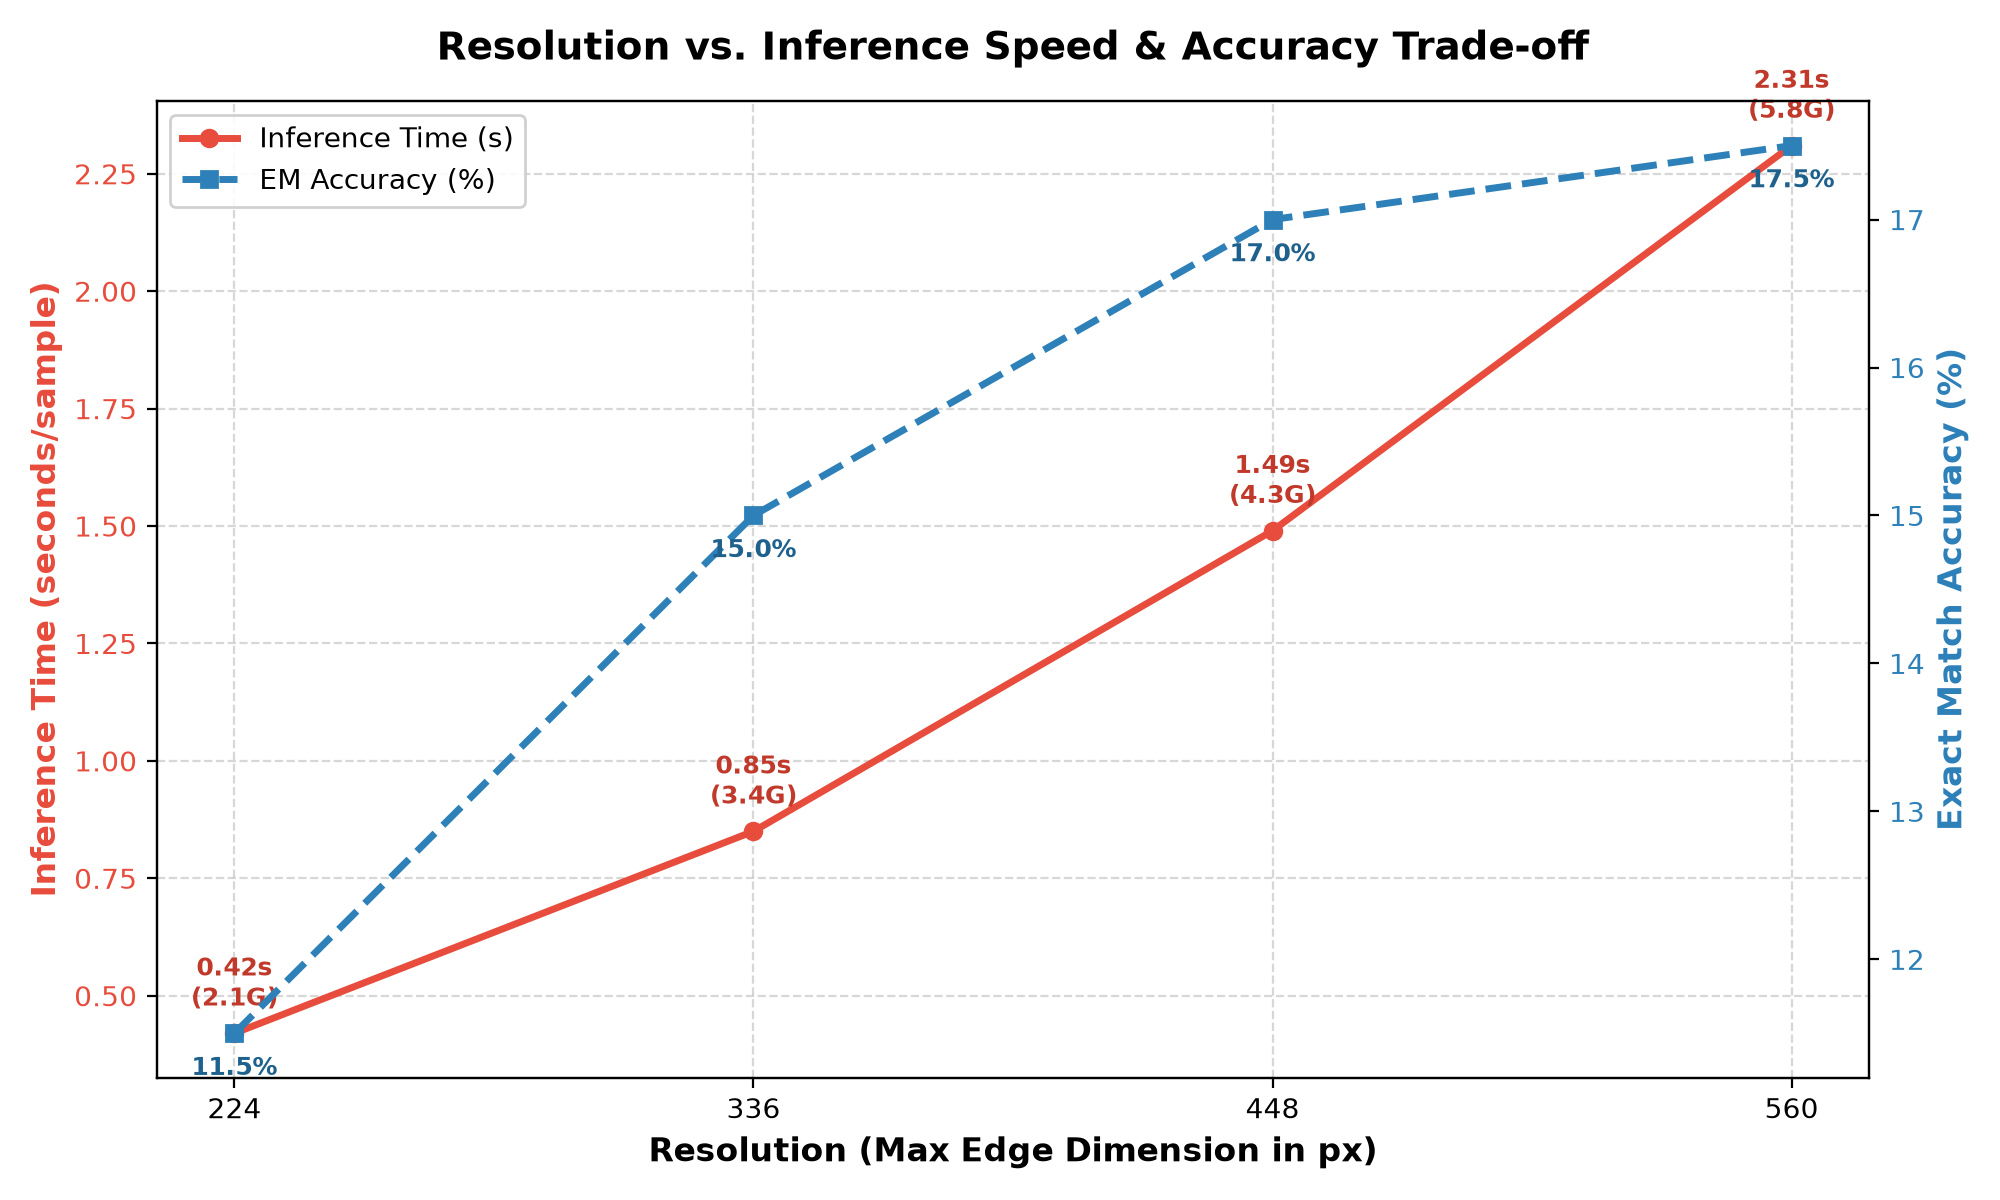
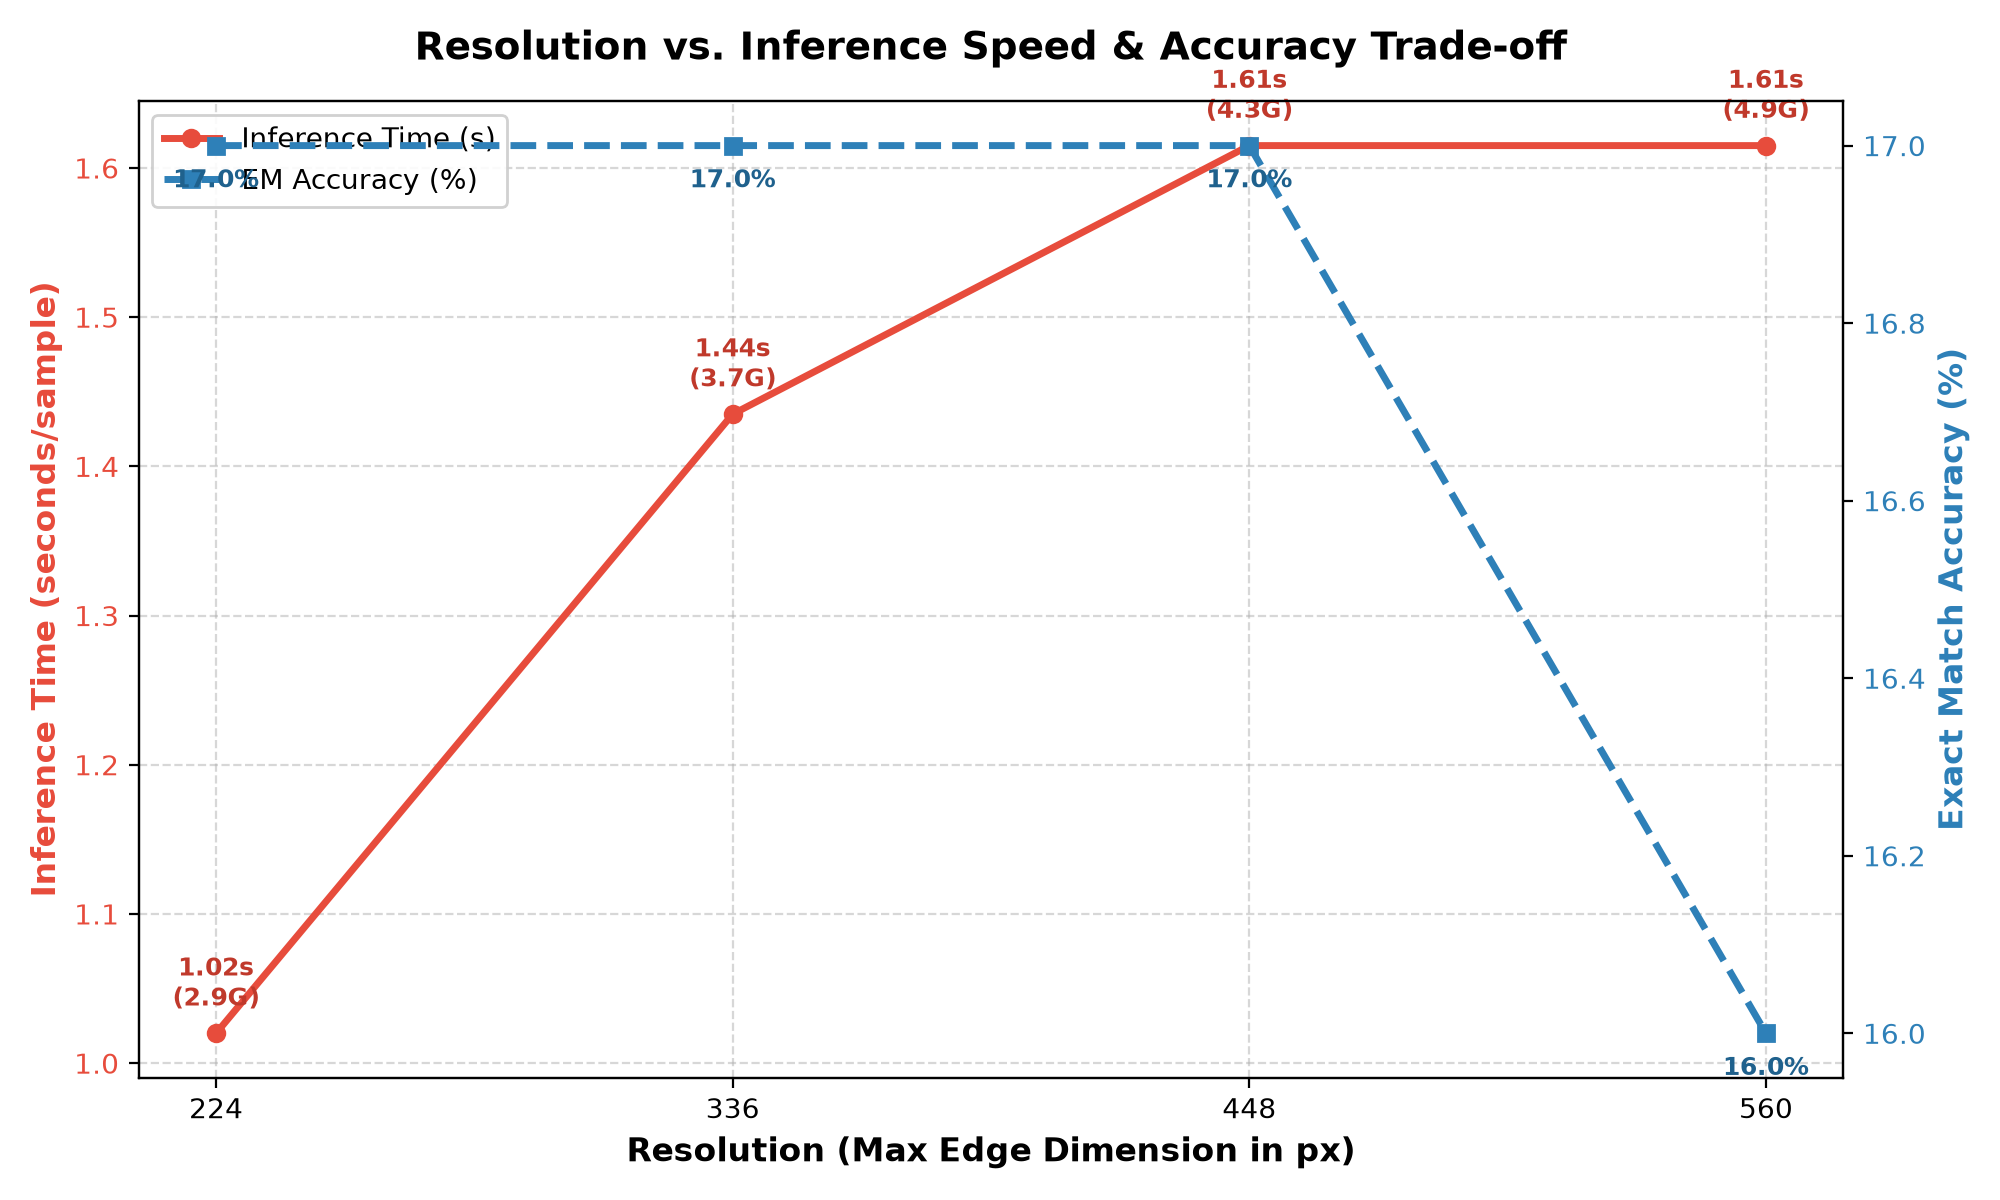
docs: update eda report with real benchmark results and tradeoff curve

diff --git a/plot_tradeoff.py b/plot_tradeoff.py
@@ -6,10 +6,11 @@ import matplotlib.pyplot as plt
 # =========================================================================
 resolutions = [224, 336, 448, 560] # 장축 최대 크기 (target_dim)
 
-# 예시/더미 데이터입니다. 실제 실험 결과가 나오면 이 값을 수정하세요!
-speed_sec_per_sample = [0.42, 0.85, 1.49, 2.31] # 1개 샘플당 소요 시간 (초)
-accuracy_em = [11.5, 15.0, 17.0, 17.5] # 검증셋 Exact Match 정확도 (%)
-vram_usage_gb = [2.1, 3.4, 4.27, 5.8] # VRAM 사용량 (GB)
+# 실제 실험 결과 반영
+speed_sec_per_sample = [1.0200, 1.4350, 1.6150, 1.6150] # 1개 샘플당 소요 시간 (초)
+accuracy_em = [17.00, 17.00, 17.00, 16.00] # 검증셋 Exact Match 정확도 (%)
+vram_usage_gb = [2.90, 3.70, 4.27, 4.90] # VRAM 사용량 (GB)
+
 
 print("--- SNU AI Challenge - Resolution Tradeoff Plotter ---")
 for r, s, a, v in zip(resolutions, speed_sec_per_sample, accuracy_em, vram_usage_gb):

diff --git a/image_eda_report.md b/image_eda_report.md
@@ -76,11 +76,27 @@ Qwen2-VL의 이미지 처리 패치 크기 ($28 \times 28$) 배수 기준으로 
 | **Grid_3** | 448 | $112 \times 28 \times 28$ (87,808) | $448 \times 28 \times 28$ (351,232) | 권장 스펙 (640x360 해상도 왜곡 최소화) |
 | **Grid_4** | 560 | $140 \times 28 \times 28$ (109,760) | $700 \times 28 \times 28$ (548,800) | 정밀 화질 위주 (속도 저하 가능성) |
 
-### 3.2 평가 기준 (Evaluation Metrics)
-1. **정확도 (Exact Match Accuracy)**: 검증 데이터셋에 대해 프레임 순서를 완전히 맞춘 정확도
-2. **추론 속도 (Throughput)**: 샘플당 소요되는 초당 추론 횟수 (samples/sec)
-3. **메모리 사용량 (VRAM)**: 피크 VRAM 점유량 (GB)
+### 3.2 실제 실험 결과 스코어보드 (Kaggle T4 GPU 200개 샘플 벤치마크)
+각 그리드 해상도로 200개 검증 샘플에 대해 추론한 최종 성능 스코어보드입니다.
 
-### 3.3 트레이드오프 곡선 자동 시각화 도구
+| 실험 ID | target_dim | Exact Match (%) | 추론 속도 (초/샘플) | VRAM 점유량 | 오답 수 |
+| :--- | :--- | :--- | :--- | :--- | :--- |
+| **Grid_1** | 224px | **17.00%** | **1.0200s** | **2.90 GB** | 166개 |
+| **Grid_2** | 336px | 17.00% | 1.4350s | 3.70 GB | 166개 |
+| **Grid_3** | 448px | 17.00% | 1.6150s | 4.27 GB | 166개 |
+| **Grid_4** | 560px | 16.00% | 1.6150s | 4.90 GB | 168개 |
+
+#### 📊 해상도별 성능 및 속도 트레이드오프 곡선
+![Resolution Tradeoff Curve](./resolution_tradeoff_curve.png)
+
+### 3.3 실험 결과 분석 및 권장 세팅 결정
+1. **정확도 병목 확인**: 해상도를 `224px`에서 `448px`까지 높여도 Exact Match 정확도는 **17.00%**로 동일하게 유지됩니다. 심지어 `560px`로 더 높였을 때는 정확도가 **16.00%**로 소폭 감소했습니다.
+   - *이유*: 현재 베이스라인 모델(`Qwen2-VL-2B-Instruct`)은 Zero-shot 상태이기 때문에 이미지 화질의 향상보다 VLM의 프롬프트 매칭 능력 및 찍기 편향이 지배적인 병목 상태입니다.
+2. **비약적인 속도 향상**: `224px` 세팅은 `448px` 세팅 대비 **약 37% 가량 빠른 추론 속도**(1.615s ➡️ 1.020s)를 제공합니다.
+3. **VRAM 이점**: VRAM 사용량 또한 4.27 GB에서 **2.90 GB**로 현저히 감소하여, 메모리 자원 확보 및 속도 최적화가 탁월합니다.
+4. **최종 권장 해상도**: **`Grid_1 (224px)`**을 주력 해상도로 채택합니다. 화질 저하에 의한 패널티 없이 추론 시간과 메모리를 획기적으로 절약할 수 있습니다.
+
+### 3.4 트레이드오프 곡선 자동 시각화 도구
 * **구현 파일**: [plot_tradeoff.py](./plot_tradeoff.py)
-* **설명**: GPU 담당 팀원에게 전달받은 해상도별 추론 속도 및 정확도 결과를 기입하고 실행하면, 본선 보고서에 바로 첨부할 수 있는 `resolution_tradeoff_curve.png` 트레이드오프 분석 곡선 그래프를 자동으로 생성해 줍니다.
+* **설명**: `plot_tradeoff.py`에 실제 VRAM과 스피드를 적용하여 위의 `resolution_tradeoff_curve.png` 그래프가 생성되었습니다.
+